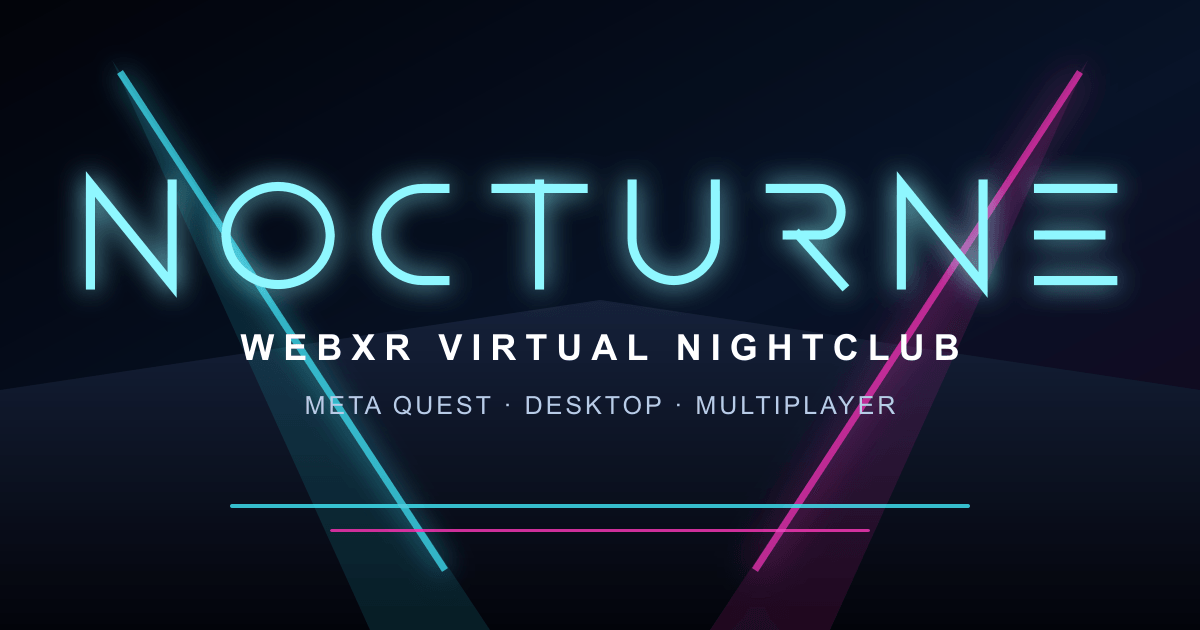
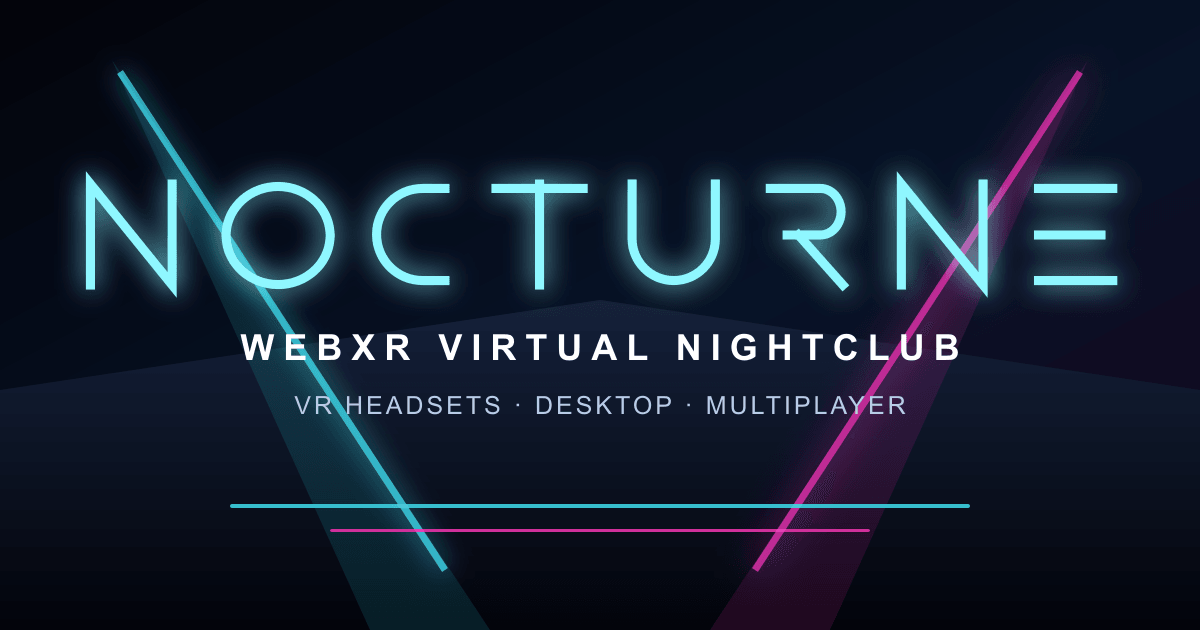
refactor: update descriptions and metadata for broader VR compatibility

Changed region(s): [[0.2467, 0.6032, 0.7708, 0.6635]]

diff --git a/index.html b/index.html
@@ -58,7 +58,7 @@
     ">
     <meta name="referrer" content="no-referrer">
     <meta name="viewport" content="width=device-width, initial-scale=1.0, viewport-fit=cover">
-    <meta name="description" content="Explore NOCTURNE, an immersive WebXR virtual nightclub for Meta Quest and desktop with multiplayer, audio-reactive lighting, a live VJ desk, and your own music.">
+    <meta name="description" content="Explore NOCTURNE, an immersive WebXR virtual nightclub for compatible VR headsets and desktop browsers, with multiplayer, live VJ controls, and your own music.">
     <meta name="robots" content="index, follow, max-image-preview:large, max-snippet:-1, max-video-preview:-1">
     <meta name="theme-color" content="#030308">
 
@@ -68,7 +68,7 @@
     <meta property="og:type" content="website">
     <meta property="og:site_name" content="NOCTURNE">
     <meta property="og:title" content="NOCTURNE — WebXR Virtual Nightclub">
-    <meta property="og:description" content="Enter an immersive virtual nightclub on Meta Quest or desktop. Meet friends online, control the light show, explore the venue, and bring your own music.">
+    <meta property="og:description" content="Enter an immersive WebXR nightclub on a compatible VR headset or desktop. Meet friends online, control the light show, explore the venue, and bring your own music.">
     <meta property="og:url" content="https://nocturne.mitwee.nl/">
     <meta property="og:image" content="https://nocturne.mitwee.nl/icons/social-preview.png">
     <meta property="og:image:width" content="1200">
@@ -78,11 +78,11 @@
 
     <meta name="twitter:card" content="summary_large_image">
     <meta name="twitter:title" content="NOCTURNE — WebXR Virtual Nightclub">
-    <meta name="twitter:description" content="Explore a social virtual nightclub on Meta Quest or desktop, control the show, and bring your own music.">
+    <meta name="twitter:description" content="Explore a social WebXR nightclub on compatible VR headsets or desktop, control the show, and bring your own music.">
     <meta name="twitter:image" content="https://nocturne.mitwee.nl/icons/social-preview.png">
     <meta name="twitter:image:alt" content="NOCTURNE WebXR virtual nightclub with neon lighting">
     
-    <!-- Quest 3S / WebXR Optimization -->
+    <!-- WebXR and mobile browser support -->
     <meta name="mobile-web-app-capable" content="yes">
     <meta name="apple-mobile-web-app-capable" content="yes">
     <meta name="apple-mobile-web-app-status-bar-style" content="black-translucent">
@@ -90,7 +90,7 @@
     <!-- Performance Hints: the Babylon runtime is the critical path and is same-origin. -->
     <link rel="preload" href="js/vendor/babylon.js?v=20261009-1" as="script">
     
-    <title>WebXR Virtual Nightclub for Meta Quest &amp; Desktop | NOCTURNE</title>
+    <title>WebXR Virtual Nightclub for VR Headsets &amp; Desktop | NOCTURNE</title>
     
     <link rel="manifest" href="manifest.json?v=20261009-1">
     <link rel="icon" type="image/png" sizes="192x192" href="icons/icon-192.png?v=20261009-1">
@@ -671,17 +671,17 @@
                  itemscope itemtype="https://schema.org/WebApplication">
             <link itemprop="url" href="https://nocturne.mitwee.nl/">
             <meta itemprop="applicationCategory" content="GameApplication">
-            <meta itemprop="operatingSystem" content="Web browser, Meta Quest">
+            <meta itemprop="operatingSystem" content="Web browser">
             <meta itemprop="browserRequirements" content="A modern WebGL 2 browser; WebXR support for immersive VR">
             <meta itemprop="image" content="https://nocturne.mitwee.nl/icons/social-preview.png">
             <h1 id="experienceOverviewTitle" itemprop="name">NOCTURNE WebXR Virtual Nightclub</h1>
             <p itemprop="description">
-                NOCTURNE is an immersive social 3D nightclub for Meta Quest and desktop browsers.
+                NOCTURNE is an immersive social 3D nightclub for WebXR-compatible VR headsets and desktop browsers.
                 Explore a basement club and its city street, join friends online, or take control of the
                 audio-reactive lighting from the VJ desk.
             </p>
             <ul>
-                <li>Enter in WebXR on Meta Quest or explore with keyboard and mouse on desktop.</li>
+                <li>Enter in immersive WebXR on a compatible VR headset or explore with keyboard and mouse on desktop.</li>
                 <li>Bring direct music links or local audio files; no music is bundled with the experience.</li>
                 <li>Meet friends in multiplayer rooms with avatars, spatial voice, chat, reactions, and shared music.</li>
                 <li>Control moving lights, lasers, LED visuals, effects, the resident DJ, and the automatic NOCTURNE show.</li>

diff --git a/README.md b/README.md
@@ -1,6 +1,6 @@
 # VR Club
 
-Hyperrealistic WebXR nightclub built with Babylon.js for Meta Quest 3S and desktop browser preview. The experience includes a PBR club environment, DJ booth, LED wall, lasers, spotlights, mirror ball effects, audio-reactive lighting, local audio files, and stream URL playback.
+Hyperrealistic WebXR nightclub built with Babylon.js for compatible VR headsets and desktop browsers, with Meta Quest used as the primary tested headset. The experience includes a PBR club environment, DJ booth, LED wall, lasers, spotlights, mirror ball effects, audio-reactive lighting, local audio files, and stream URL playback.
 
 ## Quick Start
 
